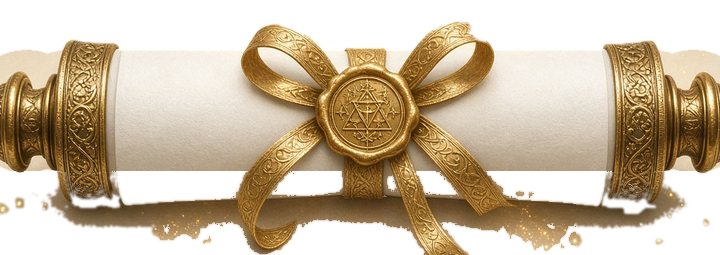
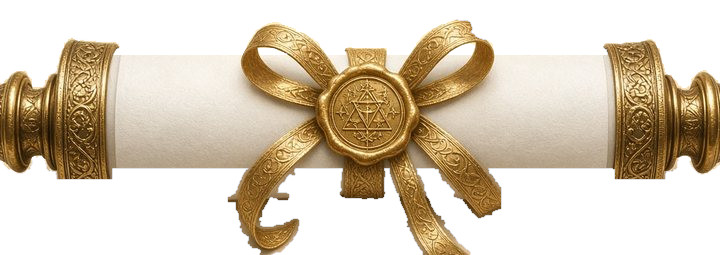
Tighten the closed scroll cutout and blend the open parchment joint

diff --git a/game_v5/map.html b/game_v5/map.html
@@ -56,9 +56,9 @@
   .spp{position:relative;width:min(var(--scroll-w),100%);height:var(--scroll-closed-h);max-height:100%;overflow:hidden;flex:none;transition:height .85s cubic-bezier(.22,.8,.28,1)}
   .sov.on .spp{height:100%}
   .spp-art{position:absolute;left:0;top:0;width:100%;height:var(--sov-h);pointer-events:none}
-  .spp-top{position:absolute;left:0;top:0;width:100%;height:auto;display:block;z-index:1}
+  .spp-top{position:absolute;left:0;top:0;width:100%;height:auto;display:block;z-index:1;-webkit-mask-image:linear-gradient(to bottom,#000 0,#000 calc(100% - 52px),transparent 100%);mask-image:linear-gradient(to bottom,#000 0,#000 calc(100% - 52px),transparent 100%)}
   .spp-bot{position:absolute;left:0;bottom:0;width:100%;height:auto;display:block;z-index:1}
-  .spp-mid{position:absolute;left:0;right:0;top:calc(var(--scroll-cap-top) * .68);bottom:calc(var(--scroll-cap-bot) * .48);background:url(img/scroll_open_mid.png?v=h7) center top / 100% auto repeat-y;z-index:0;-webkit-mask-image:linear-gradient(to bottom,transparent 0,#000 40px,#000 calc(100% - 72px),transparent 100%);mask-image:linear-gradient(to bottom,transparent 0,#000 40px,#000 calc(100% - 72px),transparent 100%)}
+  .spp-mid{position:absolute;left:0;right:0;top:calc(var(--scroll-cap-top) * .45);bottom:calc(var(--scroll-cap-bot) * .48);background:url(img/scroll_open_mid.png?v=h7) center top / 100% auto repeat-y;z-index:0;-webkit-mask-image:linear-gradient(to bottom,transparent 0,#000 28px,#000 calc(100% - 72px),transparent 100%);mask-image:linear-gradient(to bottom,transparent 0,#000 28px,#000 calc(100% - 72px),transparent 100%)}
   .sbd{position:absolute;left:14%;right:14%;top:calc(var(--scroll-cap-top) + 8px);bottom:calc(var(--scroll-cap-bot) + 8px);overflow:auto;-webkit-overflow-scrolling:touch;font:500 16px/1.55 Manrope,sans-serif;color:#3a220a;opacity:0;transition:opacity .4s .4s}
   .sov.on .sbd{opacity:1}
   .sbd h3{margin:0 0 8px;font:700 26px/1.1 "Cormorant Garamond",serif;color:#6a3e10;text-align:center}
@@ -90,7 +90,7 @@
 <link rel="stylesheet" href="nav.css?v=h3"></head>
 <body data-page="map">
 <h1 class="vh">Карта путешествия</h1>
-<button class="scl" id="scl" type="button" aria-label="Послание"><img src="img/scroll_closed.png?v=h5" alt=""></button>
+<button class="scl" id="scl" type="button" aria-label="Послание"><img src="img/scroll_closed.png?v=h8" alt=""></button>
 <div class="sov" id="sov">
   <div class="spp" id="spp">
     <div class="spp-art" aria-hidden="true">
